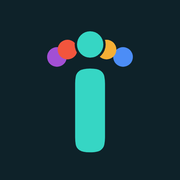
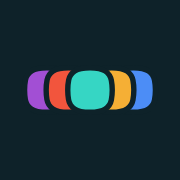
Add files via upload

Changed region(s): [[0.1389, 0.1667, 0.8611, 0.8611]]

diff --git a/tribbi/index.html b/tribbi/index.html
@@ -96,38 +96,32 @@ button,input,select{font:inherit;color:inherit}
 footer{margin:56px auto 0;padding:20px 22px 36px;max-width:1040px;display:flex;justify-content:space-between;gap:12px;flex-wrap:wrap;color:var(--muted);border-top:2px dashed var(--line);font-size:.95rem}
 footer a{color:var(--teal);font-weight:700}
 
-/* Logo Tribbi (opción B: la tribu en fila sobre la última i) */
-.tb-logo{font-family:"Fredoka","Trebuchet MS",sans-serif;font-weight:700;line-height:1;letter-spacing:0;color:var(--logo);white-space:nowrap;display:inline-block;padding-top:.14em;text-decoration:none}
-.tb-logo .i{position:relative;display:inline-block}
-.tb-logo .i b{position:absolute;border-radius:50%;width:.12em;height:.12em}
-.tb-logo .i b:nth-child(1){left:-.1415em;top:.24em;background:#A24FD4}
-.tb-logo .i b:nth-child(2){left:.2585em;top:.24em;background:#4C8DF6}
-.tb-logo .i b:nth-child(3){left:-.0785em;top:.195em;background:#F2553D}
-.tb-logo .i b:nth-child(4){left:.1585em;top:.195em;background:#F5AF35}
-.tb-logo .i b:nth-child(5){left:.0385em;top:.145em;width:.16em;height:.16em;background:var(--logo);box-shadow:0 0 0 .014em var(--bg)}
+/* Logo Tribbi: la última i igual a la primera, con réplicas de su punto en fila por detrás.
+   Cada réplica es la forma exacta del punto de la letra y lleva un borde del color del fondo. */
+.tb-logo{font-family:"Fredoka","Trebuchet MS",sans-serif;font-weight:700;line-height:1;letter-spacing:0;color:var(--logo);white-space:nowrap;display:inline-block;padding:.08em .3em 0 0;text-decoration:none}
+.tb-logo .i{position:relative;display:inline-block;z-index:0}
+.tb-logo .i .c{position:absolute;z-index:-1;width:.181em;height:.181em;overflow:visible}
+.tb-logo .i .c.p{z-index:1}
+.tb-logo .i .c path{stroke:var(--bg);stroke-width:40px;paint-order:stroke}
+.tb-logo .i .c.p path{fill:var(--logo)}
 
-/* Animación del logo: el punto sale de la i y luego la tribu sale del punto */
-.tb-logo .i b:nth-child(1){--dx:.2em;--dy:-.075em}
-.tb-logo .i b:nth-child(2){--dx:-.2em;--dy:-.075em}
-.tb-logo .i b:nth-child(3){--dx:.137em;--dy:-.03em}
-.tb-logo .i b:nth-child(4){--dx:-.1em;--dy:-.03em}
+/* Animación del logo: las réplicas salen de detrás del punto de la i */
 .tb-logo.anim{cursor:pointer}
-.tb-logo.anim .i b{animation:tbsale .75s cubic-bezier(.34,1.56,.64,1) both}
-.tb-logo.anim .i b:nth-child(5){animation:tbpunto .5s cubic-bezier(.34,1.56,.64,1) .2s both}
-.tb-logo.anim .i b:nth-child(3){animation-delay:.6s}
-.tb-logo.anim .i b:nth-child(4){animation-delay:.72s}
-.tb-logo.anim .i b:nth-child(1){animation-delay:.88s}
-.tb-logo.anim .i b:nth-child(2){animation-delay:1s}
-@keyframes tbsale{from{transform:translate(var(--dx),var(--dy)) scale(.2);opacity:0}30%{opacity:1}to{transform:none;opacity:1}}
-@keyframes tbpunto{from{transform:translateY(.17em) scale(.25);opacity:0}40%{opacity:1}to{transform:none;opacity:1}}
-@media (prefers-reduced-motion:reduce){.tb-logo.anim .i b{animation:none!important}}
+.tb-logo.anim .i .c{animation:tbsale .7s cubic-bezier(.34,1.56,.64,1) both}
+.tb-logo.anim .i .c.p{animation:none}
+.tb-logo.anim .i .c:nth-child(1){animation-delay:.25s}
+.tb-logo.anim .i .c:nth-child(2){animation-delay:.37s}
+.tb-logo.anim .i .c:nth-child(3){animation-delay:.49s}
+.tb-logo.anim .i .c:nth-child(4){animation-delay:.61s}
+@keyframes tbsale{from{transform:translateX(var(--dx))}to{transform:none}}
+@media (prefers-reduced-motion:reduce){.tb-logo.anim .i .c{animation:none!important}}
 </style>
 </head>
 <body>
 <main class="wrap">
   <header class="hero">
     <div>
-      <h1><span class="tb-logo anim" id="logo" role="img" aria-label="Tribbi" title="Tócame">Tribb<span class="i" aria-hidden="true">ı<b></b><b></b><b></b><b></b><b></b></span></span></h1>
+      <h1><span class="tb-logo anim" id="logo" role="img" aria-label="Tribbi" title="Tócame">Tribb<span class="i" aria-hidden="true">i<svg class="c" style="left:-0.165em;top:.141em;--dx:0.2em" viewBox="35 547 181 181"><path transform="translate(0 1275) scale(1 -1)" d="M125 547Q80 547 61.0 560.5Q42 574 38.5 595.0Q35 616 35 638Q35 661 39.0 681.5Q43 702 62.0 715.0Q81 728 126 728Q171 728 189.5 714.5Q208 701 212.0 680.0Q216 659 216 637Q216 615 212.0 594.0Q208 573 189.5 560.0Q171 547 125 547Z" fill="#A24FD4"/></svg><svg class="c" style="left:0.235em;top:.141em;--dx:-0.2em" viewBox="35 547 181 181"><path transform="translate(0 1275) scale(1 -1)" d="M125 547Q80 547 61.0 560.5Q42 574 38.5 595.0Q35 616 35 638Q35 661 39.0 681.5Q43 702 62.0 715.0Q81 728 126 728Q171 728 189.5 714.5Q208 701 212.0 680.0Q216 659 216 637Q216 615 212.0 594.0Q208 573 189.5 560.0Q171 547 125 547Z" fill="#4C8DF6"/></svg><svg class="c" style="left:-0.065em;top:.141em;--dx:0.1em" viewBox="35 547 181 181"><path transform="translate(0 1275) scale(1 -1)" d="M125 547Q80 547 61.0 560.5Q42 574 38.5 595.0Q35 616 35 638Q35 661 39.0 681.5Q43 702 62.0 715.0Q81 728 126 728Q171 728 189.5 714.5Q208 701 212.0 680.0Q216 659 216 637Q216 615 212.0 594.0Q208 573 189.5 560.0Q171 547 125 547Z" fill="#F2553D"/></svg><svg class="c" style="left:0.135em;top:.141em;--dx:-0.1em" viewBox="35 547 181 181"><path transform="translate(0 1275) scale(1 -1)" d="M125 547Q80 547 61.0 560.5Q42 574 38.5 595.0Q35 616 35 638Q35 661 39.0 681.5Q43 702 62.0 715.0Q81 728 126 728Q171 728 189.5 714.5Q208 701 212.0 680.0Q216 659 216 637Q216 615 212.0 594.0Q208 573 189.5 560.0Q171 547 125 547Z" fill="#F5AF35"/></svg><svg class="c p" style="left:0.035em;top:.141em" viewBox="35 547 181 181"><path transform="translate(0 1275) scale(1 -1)" d="M125 547Q80 547 61.0 560.5Q42 574 38.5 595.0Q35 616 35 638Q35 661 39.0 681.5Q43 702 62.0 715.0Q81 728 126 728Q171 728 189.5 714.5Q208 701 212.0 680.0Q216 659 216 637Q216 615 212.0 594.0Q208 573 189.5 560.0Q171 547 125 547Z"/></svg></span></span></h1>
       <p class="tag">Intercambios que arman tribu</p>
       <p class="lead">Te inscribes, te toca alguien al azar y le das algo pensado para esa persona. Nosotros organizamos el sorteo y las entregas; tú solo eliges el regalo.</p>
     </div>

diff --git a/tribbi/organizar.html b/tribbi/organizar.html
@@ -60,7 +60,7 @@ label.f small{display:block;font-weight:400;color:var(--muted);font-size:.86rem}
 </head>
 <body>
 <div class="wrap">
-  <div class="top"><a class="tb-logo" href="./" aria-label="Tribbi, inicio" style="font-size:34px">Tribb<span class="i" aria-hidden="true">ı<b></b><b></b><b></b><b></b><b></b></span></a><span><button class="tb-link" id="inicioBtn" hidden>Mis intercambios</button><button class="tb-link" id="salirBtn" hidden>Salir</button></span></div>
+  <div class="top"><a class="tb-logo" href="./" aria-label="Tribbi, inicio" style="font-size:34px">Tribb<span class="i" aria-hidden="true">i<svg class="c" style="left:-0.165em;top:.141em;--dx:0.2em" viewBox="35 547 181 181"><path transform="translate(0 1275) scale(1 -1)" d="M125 547Q80 547 61.0 560.5Q42 574 38.5 595.0Q35 616 35 638Q35 661 39.0 681.5Q43 702 62.0 715.0Q81 728 126 728Q171 728 189.5 714.5Q208 701 212.0 680.0Q216 659 216 637Q216 615 212.0 594.0Q208 573 189.5 560.0Q171 547 125 547Z" fill="#A24FD4"/></svg><svg class="c" style="left:0.235em;top:.141em;--dx:-0.2em" viewBox="35 547 181 181"><path transform="translate(0 1275) scale(1 -1)" d="M125 547Q80 547 61.0 560.5Q42 574 38.5 595.0Q35 616 35 638Q35 661 39.0 681.5Q43 702 62.0 715.0Q81 728 126 728Q171 728 189.5 714.5Q208 701 212.0 680.0Q216 659 216 637Q216 615 212.0 594.0Q208 573 189.5 560.0Q171 547 125 547Z" fill="#4C8DF6"/></svg><svg class="c" style="left:-0.065em;top:.141em;--dx:0.1em" viewBox="35 547 181 181"><path transform="translate(0 1275) scale(1 -1)" d="M125 547Q80 547 61.0 560.5Q42 574 38.5 595.0Q35 616 35 638Q35 661 39.0 681.5Q43 702 62.0 715.0Q81 728 126 728Q171 728 189.5 714.5Q208 701 212.0 680.0Q216 659 216 637Q216 615 212.0 594.0Q208 573 189.5 560.0Q171 547 125 547Z" fill="#F2553D"/></svg><svg class="c" style="left:0.135em;top:.141em;--dx:-0.1em" viewBox="35 547 181 181"><path transform="translate(0 1275) scale(1 -1)" d="M125 547Q80 547 61.0 560.5Q42 574 38.5 595.0Q35 616 35 638Q35 661 39.0 681.5Q43 702 62.0 715.0Q81 728 126 728Q171 728 189.5 714.5Q208 701 212.0 680.0Q216 659 216 637Q216 615 212.0 594.0Q208 573 189.5 560.0Q171 547 125 547Z" fill="#F5AF35"/></svg><svg class="c p" style="left:0.035em;top:.141em" viewBox="35 547 181 181"><path transform="translate(0 1275) scale(1 -1)" d="M125 547Q80 547 61.0 560.5Q42 574 38.5 595.0Q35 616 35 638Q35 661 39.0 681.5Q43 702 62.0 715.0Q81 728 126 728Q171 728 189.5 714.5Q208 701 212.0 680.0Q216 659 216 637Q216 615 212.0 594.0Q208 573 189.5 560.0Q171 547 125 547Z"/></svg></span></a><span><button class="tb-link" id="inicioBtn" hidden>Mis intercambios</button><button class="tb-link" id="salirBtn" hidden>Salir</button></span></div>
 
   <div id="vLogin" hidden>
     <h1 class="big">Organiza tu amigo secreto</h1>

diff --git a/tribbi/bookpal.html b/tribbi/bookpal.html
@@ -78,7 +78,7 @@ footer{max-width:1040px;margin:30px auto 0;padding:18px 20px 36px;color:var(--mu
 </head>
 <body>
 <div class="wrap">
-  <div class="top"><a class="tb-logo" href="./" aria-label="Tribbi, inicio" style="font-size:34px">Tribb<span class="i" aria-hidden="true">ı<b></b><b></b><b></b><b></b><b></b></span></a><span><button class="tb-link" id="salirBtn" hidden>Salir</button></span></div>
+  <div class="top"><a class="tb-logo" href="./" aria-label="Tribbi, inicio" style="font-size:34px">Tribb<span class="i" aria-hidden="true">i<svg class="c" style="left:-0.165em;top:.141em;--dx:0.2em" viewBox="35 547 181 181"><path transform="translate(0 1275) scale(1 -1)" d="M125 547Q80 547 61.0 560.5Q42 574 38.5 595.0Q35 616 35 638Q35 661 39.0 681.5Q43 702 62.0 715.0Q81 728 126 728Q171 728 189.5 714.5Q208 701 212.0 680.0Q216 659 216 637Q216 615 212.0 594.0Q208 573 189.5 560.0Q171 547 125 547Z" fill="#A24FD4"/></svg><svg class="c" style="left:0.235em;top:.141em;--dx:-0.2em" viewBox="35 547 181 181"><path transform="translate(0 1275) scale(1 -1)" d="M125 547Q80 547 61.0 560.5Q42 574 38.5 595.0Q35 616 35 638Q35 661 39.0 681.5Q43 702 62.0 715.0Q81 728 126 728Q171 728 189.5 714.5Q208 701 212.0 680.0Q216 659 216 637Q216 615 212.0 594.0Q208 573 189.5 560.0Q171 547 125 547Z" fill="#4C8DF6"/></svg><svg class="c" style="left:-0.065em;top:.141em;--dx:0.1em" viewBox="35 547 181 181"><path transform="translate(0 1275) scale(1 -1)" d="M125 547Q80 547 61.0 560.5Q42 574 38.5 595.0Q35 616 35 638Q35 661 39.0 681.5Q43 702 62.0 715.0Q81 728 126 728Q171 728 189.5 714.5Q208 701 212.0 680.0Q216 659 216 637Q216 615 212.0 594.0Q208 573 189.5 560.0Q171 547 125 547Z" fill="#F2553D"/></svg><svg class="c" style="left:0.135em;top:.141em;--dx:-0.1em" viewBox="35 547 181 181"><path transform="translate(0 1275) scale(1 -1)" d="M125 547Q80 547 61.0 560.5Q42 574 38.5 595.0Q35 616 35 638Q35 661 39.0 681.5Q43 702 62.0 715.0Q81 728 126 728Q171 728 189.5 714.5Q208 701 212.0 680.0Q216 659 216 637Q216 615 212.0 594.0Q208 573 189.5 560.0Q171 547 125 547Z" fill="#F5AF35"/></svg><svg class="c p" style="left:0.035em;top:.141em" viewBox="35 547 181 181"><path transform="translate(0 1275) scale(1 -1)" d="M125 547Q80 547 61.0 560.5Q42 574 38.5 595.0Q35 616 35 638Q35 661 39.0 681.5Q43 702 62.0 715.0Q81 728 126 728Q171 728 189.5 714.5Q208 701 212.0 680.0Q216 659 216 637Q216 615 212.0 594.0Q208 573 189.5 560.0Q171 547 125 547Z"/></svg></span></a><span><button class="tb-link" id="salirBtn" hidden>Salir</button></span></div>
   <header class="hero">
     <h1>BookPal</h1>
     <p>Envías un libro que ya leíste a alguien que le va a gustar, y recibes uno de otra persona. Sin fechas: entras cuando quieras. También hay libros para niños.</p>

diff --git a/tribbi/amigo-secreto.html b/tribbi/amigo-secreto.html
@@ -47,7 +47,7 @@ footer{max-width:640px;margin:20px auto 0;padding:18px 20px 36px;color:var(--mut
 </head>
 <body>
 <div class="wrap">
-  <div class="top"><a class="tb-logo" href="./" aria-label="Tribbi" style="font-size:28px">Tribb<span class="i" aria-hidden="true">ı<b></b><b></b><b></b><b></b><b></b></span></a><button class="tb-link" id="salirBtn" hidden>Salir</button></div>
+  <div class="top"><a class="tb-logo" href="./" aria-label="Tribbi" style="font-size:28px">Tribb<span class="i" aria-hidden="true">i<svg class="c" style="left:-0.165em;top:.141em;--dx:0.2em" viewBox="35 547 181 181"><path transform="translate(0 1275) scale(1 -1)" d="M125 547Q80 547 61.0 560.5Q42 574 38.5 595.0Q35 616 35 638Q35 661 39.0 681.5Q43 702 62.0 715.0Q81 728 126 728Q171 728 189.5 714.5Q208 701 212.0 680.0Q216 659 216 637Q216 615 212.0 594.0Q208 573 189.5 560.0Q171 547 125 547Z" fill="#A24FD4"/></svg><svg class="c" style="left:0.235em;top:.141em;--dx:-0.2em" viewBox="35 547 181 181"><path transform="translate(0 1275) scale(1 -1)" d="M125 547Q80 547 61.0 560.5Q42 574 38.5 595.0Q35 616 35 638Q35 661 39.0 681.5Q43 702 62.0 715.0Q81 728 126 728Q171 728 189.5 714.5Q208 701 212.0 680.0Q216 659 216 637Q216 615 212.0 594.0Q208 573 189.5 560.0Q171 547 125 547Z" fill="#4C8DF6"/></svg><svg class="c" style="left:-0.065em;top:.141em;--dx:0.1em" viewBox="35 547 181 181"><path transform="translate(0 1275) scale(1 -1)" d="M125 547Q80 547 61.0 560.5Q42 574 38.5 595.0Q35 616 35 638Q35 661 39.0 681.5Q43 702 62.0 715.0Q81 728 126 728Q171 728 189.5 714.5Q208 701 212.0 680.0Q216 659 216 637Q216 615 212.0 594.0Q208 573 189.5 560.0Q171 547 125 547Z" fill="#F2553D"/></svg><svg class="c" style="left:0.135em;top:.141em;--dx:-0.1em" viewBox="35 547 181 181"><path transform="translate(0 1275) scale(1 -1)" d="M125 547Q80 547 61.0 560.5Q42 574 38.5 595.0Q35 616 35 638Q35 661 39.0 681.5Q43 702 62.0 715.0Q81 728 126 728Q171 728 189.5 714.5Q208 701 212.0 680.0Q216 659 216 637Q216 615 212.0 594.0Q208 573 189.5 560.0Q171 547 125 547Z" fill="#F5AF35"/></svg><svg class="c p" style="left:0.035em;top:.141em" viewBox="35 547 181 181"><path transform="translate(0 1275) scale(1 -1)" d="M125 547Q80 547 61.0 560.5Q42 574 38.5 595.0Q35 616 35 638Q35 661 39.0 681.5Q43 702 62.0 715.0Q81 728 126 728Q171 728 189.5 714.5Q208 701 212.0 680.0Q216 659 216 637Q216 615 212.0 594.0Q208 573 189.5 560.0Q171 547 125 547Z"/></svg></span></a><button class="tb-link" id="salirBtn" hidden>Salir</button></div>
   <p class="org" id="org"></p>
   <h1 class="big" id="tit">Amigo secreto</h1>
   <div class="chips" id="chips"></div>

diff --git a/tribbi/tribbi-comun.css b/tribbi/tribbi-comun.css
@@ -65,12 +65,11 @@ textarea.tb-field{resize:vertical;min-height:90px}
 .tb-scroll td.nw{white-space:nowrap}
 @media (prefers-reduced-motion:reduce){.tb-scratch canvas{transition:none}.tb-confetti{display:none}}
 
-/* Logo Tribbi (opción B: la tribu en fila sobre la última i) */
-.tb-logo{font-family:"Fredoka","Trebuchet MS",sans-serif;font-weight:700;line-height:1;letter-spacing:0;color:var(--logo);white-space:nowrap;display:inline-block;padding-top:.14em;text-decoration:none}
-.tb-logo .i{position:relative;display:inline-block}
-.tb-logo .i b{position:absolute;border-radius:50%;width:.12em;height:.12em}
-.tb-logo .i b:nth-child(1){left:-.1415em;top:.24em;background:#A24FD4}
-.tb-logo .i b:nth-child(2){left:.2585em;top:.24em;background:#4C8DF6}
-.tb-logo .i b:nth-child(3){left:-.0785em;top:.195em;background:#F2553D}
-.tb-logo .i b:nth-child(4){left:.1585em;top:.195em;background:#F5AF35}
-.tb-logo .i b:nth-child(5){left:.0385em;top:.145em;width:.16em;height:.16em;background:var(--logo);box-shadow:0 0 0 .014em var(--bg)}
+/* Logo Tribbi: la última i igual a la primera, con réplicas de su punto en fila por detrás.
+   Cada réplica es la forma exacta del punto de la letra y lleva un borde del color del fondo. */
+.tb-logo{font-family:"Fredoka","Trebuchet MS",sans-serif;font-weight:700;line-height:1;letter-spacing:0;color:var(--logo);white-space:nowrap;display:inline-block;padding:.08em .3em 0 0;text-decoration:none}
+.tb-logo .i{position:relative;display:inline-block;z-index:0}
+.tb-logo .i .c{position:absolute;z-index:-1;width:.181em;height:.181em;overflow:visible}
+.tb-logo .i .c.p{z-index:1}
+.tb-logo .i .c path{stroke:var(--bg);stroke-width:40px;paint-order:stroke}
+.tb-logo .i .c.p path{fill:var(--logo)}
